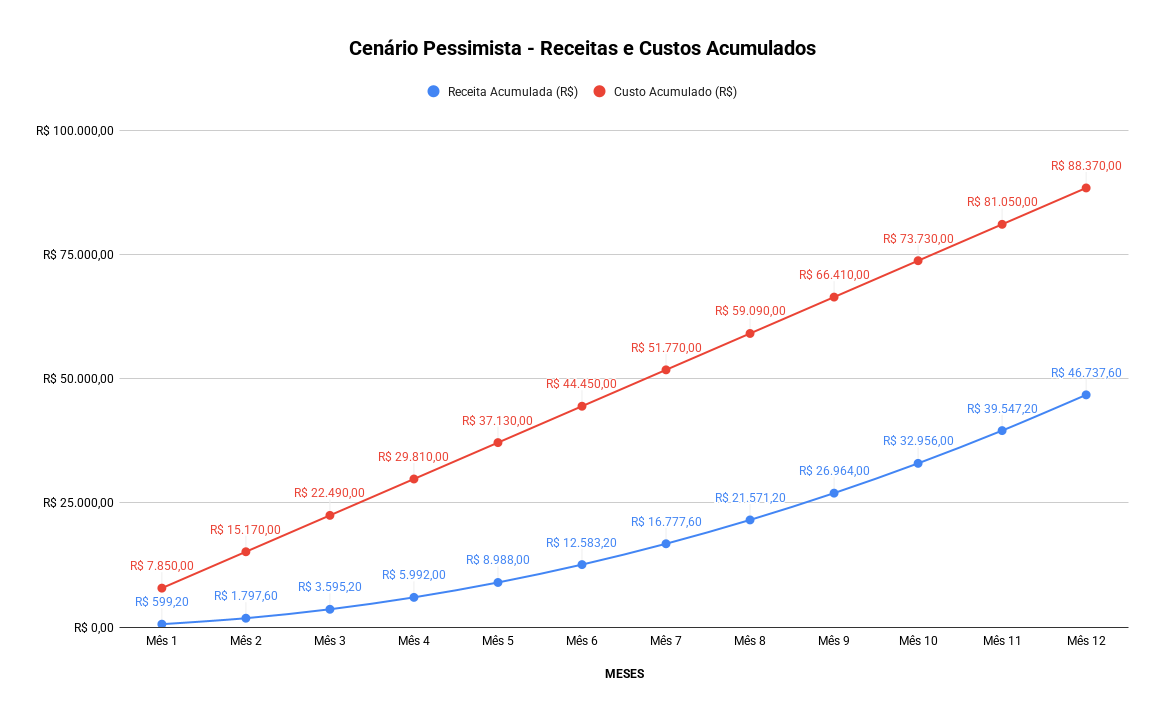
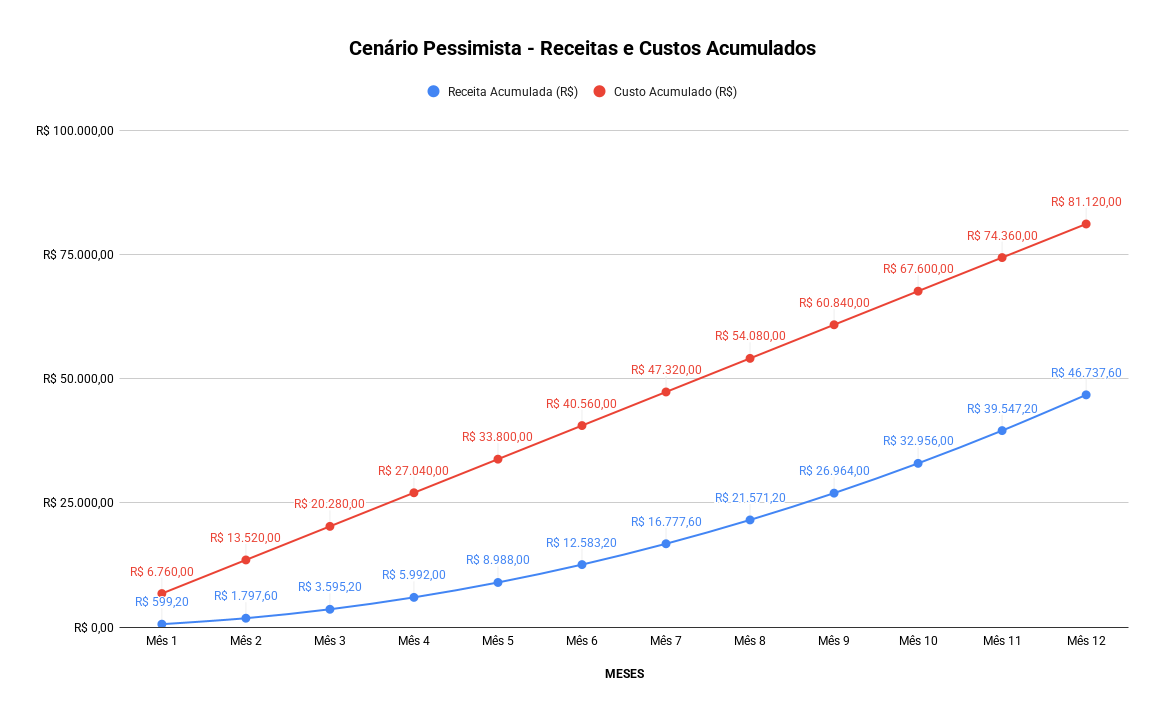
docs: adjust 'Viabilidade Financeira' chapter

Changed region(s): [[0.0928, 0.4296, 0.7113, 0.8285], [0.6804, 0.2148, 0.9588, 0.4603]]

diff --git a/docs/documentation/abntex2/cap05-viabilidade/05-01-custos.tex b/docs/documentation/abntex2/cap05-viabilidade/05-01-custos.tex
@@ -22,15 +22,12 @@ A Tabela \ref{tab:custo-mensal-projeto} apresenta os custos com mão de obra, in
 		\midrule
 		\multicolumn{3}{l}{\textbf{Infraestrutura e Ferramentas}} \\
 		\quad AWS EC2 (múltiplas instâncias) & --- & 250,00 \\
-		\quad Internet (banda larga) & 120,00 & 720,00 \\
-		\quad Consumo elétrico (computador) & 6,65 & 40,00 \\
 		\quad SonarQube (licença comercial) & --- & 350,00 \\
-		\quad Notion Plus (equipe) & 55,00 & 330,00 \\
 		\quad Figma Professional (acesso full + dev) & --- & 160,00 \\
 		\cmidrule{3-3}
-		\multicolumn{2}{l}{\textbf{Subtotal Infraestrutura}} & \textbf{1.850,00} \\
+		\multicolumn{2}{l}{\textbf{Subtotal Infraestrutura}} & \textbf{760,00} \\
 		\midrule
-		\multicolumn{2}{l}{\textbf{TOTAL MENSAL}} & \textbf{7.850,00} \\
+		\multicolumn{2}{l}{\textbf{TOTAL MENSAL}} & \textbf{6.760,00} \\
 		\bottomrule
 	\end{tabular}
 	\fonte{Produzido pelos autores}
@@ -40,9 +37,9 @@ Para determinar os custos da mão de obra, utilizou-se a plataforma \emph{Glassd
 
 Conforme aconselhado pelo orientador do projeto, considerou-se um dia de trabalho inteiro equivalente a apenas uma hora para se aproximar da disponibilidade real que os membros da equipe podiam dedicar ao desenvolvimento do projeto. Assim, o custo mensal de cada cargo foi obtido considerando o valor da hora trabalhada.
 
-O preço da infraestrutura das instâncias \gls{ec2}, operando 24 horas por dia, foi calculado utilizando a própria calculadora de preços da \gls{aws} \cite{aws-calculadora-2025}. Já o custo de internet foi baseado numa média de preços online \cite{internet-precos-2025}, enquanto o de consumo elétrico considerou a tarifa residencial da cidade de São Paulo no ano de 2024 \cite{enel-tarifa-2024} para 6 computadores com um consumo médio de 300 W por hora.
+O preço da infraestrutura das instâncias \gls{ec2}, operando 24 horas por dia, foi calculado utilizando a própria calculadora de preços da \gls{aws} \cite{aws-calculadora-2025}.
 
-Quanto às ferramentas utilizadas no projeto, levou-se em conta os preços do \emph{SonarQube} \cite{sonarqube-preco-2025}, as mensalidades do \emph{Notion} \cite{notion-preco-2025} e os planos do \emph{Figma} \cite{figma-preco-2025}. Os valores em dólar foram convertidos considerando uma cotação média de R\$ 5,50 em junho de 2025.
+Quanto às ferramentas utilizadas no projeto, levou-se em conta os preços do \emph{SonarQube} \cite{sonarqube-preco-2025} e os planos do \emph{Figma} \cite{figma-preco-2025}. Os valores em dólar foram convertidos considerando uma cotação média de R\$ 5,50 em junho de 2025.
 
 A Tabela \ref{tab:custo-total-projeto} apresenta o custo total do projeto considerando os 9 meses de desenvolvimento previstos na Seção \ref{sec:duracao}.
 
@@ -64,15 +61,12 @@ A Tabela \ref{tab:custo-total-projeto} apresenta o custo total do projeto consid
 		\midrule
 		\multicolumn{3}{l}{\textbf{Infraestrutura e Ferramentas}} \\
 		\quad AWS EC2 (múltiplas instâncias) & 250,00 & 2.250,00 \\
-		\quad Internet (banda larga) & 720,00 & 6.480,00 \\
-		\quad Consumo elétrico (computador) & 40,00 & 360,00 \\
 		\quad SonarQube (licença comercial) & 350,00 & 3.150,00 \\
-		\quad Notion Plus (equipe) & 330,00 & 2.970,00 \\
 		\quad Figma Professional (acesso full + dev) & 160,00 & 1.440,00 \\
 		\cmidrule{3-3}
-		\multicolumn{2}{l}{\textbf{Subtotal Infraestrutura}} & \textbf{16.650,00} \\
+		\multicolumn{2}{l}{\textbf{Subtotal Infraestrutura}} & \textbf{6.840,00} \\
 		\midrule
-		\multicolumn{2}{l}{\textbf{TOTAL}} & \textbf{70.650,00} \\
+		\multicolumn{2}{l}{\textbf{TOTAL}} & \textbf{60.840,00} \\
 		\bottomrule
 	\end{tabular}
 	\fonte{Produzido pelos autores}

diff --git a/docs/documentation/abntex2/cap05-viabilidade/05-02-receitas.tex b/docs/documentation/abntex2/cap05-viabilidade/05-02-receitas.tex
@@ -2,22 +2,26 @@
 
 Com base nos custos mensais e totais da Seção \ref{sec:custos}, constata-se que o projeto não é financeiramente viável para a entidade parceira, pois --- mesmo parcelando --- ela teria que arcar com todas as despesas do projeto descritas.
 
-Assim sendo, será considerada uma eventual adaptação do sistema para um modelo \gls{saas} a fim de analisar as receitas que a aplicação geraria. A Tabela \ref{tab:receitas-saas} apresenta os valores das mensalidades dos planos definidos para a aplicação.
+Assim sendo, será considerada uma eventual adaptação do sistema para um modelo \gls{saas}, a fim de analisar as receitas que a aplicação poderia gerar. A Tabela \ref{tab:receitas-saas} apresenta os valores das mensalidades e as principais funcionalidades de cada plano.
+
+A precificação dos planos foi definida com base nos preços praticados pelos concorrentes identificados na Seção \ref{sec:analise-concorrencia}, considerando também os custos operacionais e o público-alvo do sistema. 
 
 \begin{table}[htbp]
 	\centering
 	\caption{Projeção de receitas mensais - SaaS para salões de beleza}
 	\label{tab:receitas-saas}
-	\begin{tabular}{lrr}
+	\begin{tabular}{p{3cm}p{7cm}r}
 		\toprule
-		\textbf{Plano} & \multicolumn{2}{r}{\textbf{Valor Mensal (R\$)} }\\
+		\textbf{Plano} & \textbf{Funcionalidades e Diferenciais} & \textbf{Valor Mensal (R\$)} \\
 		\midrule
-		\multicolumn{1}{l}{\textbf{Planos de Assinatura}} & & \\
-		\quad Básico & & 59,90 \\
-		\quad Profissional & & 99,90 \\
+		\textbf{Básico} & Indicado para pequenos salões e profissionais autônomos. Inclui gestão de agendamentos, serviços, profissionais e turnos, além do envio de notificações \textit{in-app} para clientes e profissionais sobre os agendamentos. Permite ainda a avaliação de serviços pelos clientes e o cadastro de até 5 profissionais por salão. & 59,90 \\
+		\addlinespace
+		\textbf{Profissional} & Voltado a salões de médio e grande porte. Inclui todas as funcionalidades do plano Básico e adiciona recursos avançados como registro de pagamentos, gestão de permissões de acesso, criação de campanhas de desconto, envio de notificações personalizadas e por e-mail, geração de relatórios visuais e suporte a número ilimitado de profissionais. & 99,90 \\
 		\bottomrule
 	\end{tabular}
 	\fonte{Produzido pelos autores}
 \end{table}
 
-A precificação dos planos foi feita baseando-se nos preços praticados pelos concorrentes identificados na Seção \ref{sec:analise-concorrencia}, além de considerar os custos operacionais e tentar oferecer um preço atrativo para estimular possíveis clientes a usarem o sistema.
+O \textbf{Plano Básico} busca atender profissionais que desejam digitalizar suas operações de forma acessível, oferecendo um conjunto essencial de funcionalidades para o controle de agendamentos, serviços e equipe. 
+
+Já o \textbf{Plano Profissional}, destinado a salões com maior volume de atendimentos, amplia significativamente as possibilidades de gestão, automação e análise, justificando o valor superior ao agregar funções estratégicas voltadas à expansão e tomada de decisão.

diff --git a/docs/documentation/abntex2/cap05-viabilidade/analise-financeira/05-03-04-indicadores.tex b/docs/documentation/abntex2/cap05-viabilidade/analise-financeira/05-03-04-indicadores.tex
@@ -1,0 +1,28 @@
+\subsection{Indicadores financeiros}
+
+Para complementar a análise dos cenários apresentados, foram utilizadas métricas financeiras amplamente empregadas em estudos de viabilidade econômica, como o \textbf{Retorno sobre o Investimento (ROI)} e o \textbf{Período de Retorno (Payback Period)}.
+
+O \textbf{ROI (Return on Investment)} mede a relação entre o lucro obtido e o investimento inicial, indicando o percentual de retorno gerado pelo projeto. Sua fórmula é:
+
+\[
+ROI = \frac{\text{Lucro Líquido}}{\text{Investimento Total}} \times 100
+\]
+
+O \textbf{Payback Period} representa o tempo necessário para recuperar o investimento inicial a partir das receitas acumuladas, sendo calculado como:
+
+\[
+\text{Payback} = \frac{\text{Investimento Inicial}}{\text{Receita Líquida Média Mensal}}
+\]
+
+\subsubsection{Cenário realista}
+
+Considerando o cenário realista, em que o aumento mensal é de 15 clientes no plano básico e 10 no profissional, ao fim de 12 meses, o lucro acumulado obtido somente pelas mensalidades é de aproximadamente R\$ 59 mil.  
+Com investimento inicial de R\$ 60.840 (Tabela \ref{tab:custo-total-projeto}), o ROI estimado é de cerca de 108\% e o \textit{payback} ocorre antes de completar um ano.
+
+\subsubsection{Cenário otimista}
+
+No cenário otimista, com crescimento de 30 clientes no básico e 25 no profissional por mês, ao fim de 12 meses, o lucro acumulado pelas mensalidades é de R\$ 253 mil, resultando em ROI de aproximadamente 416\% e confirmando o rápido retorno do investimento. O \textit{payback} ocorre em cerca de 3 meses.
+
+\subsubsection{Cenário pessimista}
+
+No cenário pessimista, com aumento de apenas 5 clientes no plano básico e 3 no profissional por mês, ao fim de 12 meses, o projeto apresenta prejuízo de R\$ 34 mil, refletindo ROI negativo e ausência de payback no período analisado.

diff --git a/docs/documentation/abntex2/cap05-viabilidade/05-03-analise-financeira.tex b/docs/documentation/abntex2/cap05-viabilidade/05-03-analise-financeira.tex
@@ -1,0 +1,18 @@
+\section{Análise Financeira}
+
+Esta seção apresenta a avaliação econômica do projeto, considerando diferentes cenários de receita e custos operacionais.  
+O objetivo é demonstrar a viabilidade financeira do sistema quando estruturado como um modelo \gls{saas}, destacando a relação entre investimentos, receitas projetadas e retorno esperado.  
+A análise contempla tanto a perspectiva conservadora quanto cenários mais otimistas, fornecendo uma visão abrangente sobre a sustentabilidade econômica do projeto e os fatores que influenciam o sucesso financeiro da aplicação.
+
+\subsection{Cenários}
+
+Nesta subseção, são detalhados três cenários de desempenho financeiro do projeto: pessimista, realista e otimista.  
+Cada cenário considera diferentes taxas de crescimento da base de clientes e respectivas receitas provenientes das mensalidades, bem como os custos associados à manutenção e operação do sistema.  
+A análise permite identificar o ponto de equilíbrio, projetar lucros ou prejuízos e avaliar indicadores financeiros importantes, como ROI e Payback Period, para cada contexto estudado.
+
+
+\input{cap05-viabilidade/analise-financeira/05-03-01-cenario-realista.tex}
+\input{cap05-viabilidade/analise-financeira/05-03-02-cenario-otimista.tex}
+\input{cap05-viabilidade/analise-financeira/05-03-03-cenario-pessimista.tex}
+
+\input{cap05-viabilidade/analise-financeira/05-03-04-indicadores.tex}

diff --git a/docs/documentation/abntex2/cap05-viabilidade/analise-financeira/05-03-03-cenario-pessimista.tex b/docs/documentation/abntex2/cap05-viabilidade/analise-financeira/05-03-03-cenario-pessimista.tex
@@ -1,10 +1,10 @@
-\section{Cenário Pessimista}
+\subsubsection{Cenário pessimista}
 
 A Figura \ref{fig:cenario-pessimista} apresenta as receitas e custos acumulados no cenário pessimista considerando o projeto como um \gls{saas}. Nesse contexto, para o cálculo do acúmulo de receitas, estabeleceu-se um aumento mensal baixo de 5 clientes para o plano básico e 3 para o profissional.
 
 Os custos consideram somente os gastos com mão de obra, infraestrutura e mensalidades ou licenças das ferramentas utilizadas no desenvolvimento e manutenção da aplicação.
 
-No cenário pessismista, o ponto de equilíbrio não é atingido no doze meses de análise e, ao fim desse intervalo de tempo, há um prejuízo de R\$ 41 mil.
+No cenário pessismista, o ponto de equilíbrio não é atingido no doze meses de análise e, ao fim desse intervalo de tempo, há um prejuízo de R\$ 34 mil.
 \begin{figure}[h]
 	\centering
 	\caption{Cenário pessimista}

diff --git a/docs/documentation/abntex2/cap05-viabilidade/analise-financeira/05-03-02-cenario-otimista.tex b/docs/documentation/abntex2/cap05-viabilidade/analise-financeira/05-03-02-cenario-otimista.tex
@@ -1,10 +1,10 @@
-\section{Cenário Otimista}
+\subsubsection{Cenário otimista}
 
 A Figura \ref{fig:cenario-otimista} apresenta as receitas e custos acumulados no cenário otimista considerando o projeto como um \gls{saas}. Nesse contexto, para o cálculo do acúmulo de receitas, estabeleceu-se um aumento mensal acentuado de 30 clientes para o plano básico e 25 para o profissional.
 
 Os custos consideram somente os gastos com mão de obra, infraestrutura e mensalidades ou licenças das ferramentas utilizadas no desenvolvimento e manutenção da aplicação.
 
-No cenário otimista, o ponto de equilíbrio é atingido no terceiro mês e, ao fim dos doze meses de análise, há um lucro de R\$ 246 mil.
+No cenário otimista, o ponto de equilíbrio é atingido no terceiro mês e, ao fim dos doze meses de análise, há um lucro de R\$ 253 mil.
 
 \begin{figure}[h]
 	\centering

diff --git a/docs/documentation/abntex2/cap05-viabilidade/analise-financeira/05-03-01-cenario-realista.tex b/docs/documentation/abntex2/cap05-viabilidade/analise-financeira/05-03-01-cenario-realista.tex
@@ -1,10 +1,10 @@
-\section{Cenário Realista}
+\subsubsection{Cenário Realista}
 
 A Figura \ref{fig:cenario-realista} apresenta as receitas e custos acumulados no cenário realista considerando o projeto como um \gls{saas}. Nesse contexto, para o cálculo do acúmulo de receitas, estabeleceu-se um aumento mensal razoável de 15 clientes para o plano básico e 10 para o profissional.
 
 Os custos consideram somente os gastos com mão de obra, infraestrutura e mensalidades ou licenças das ferramentas utilizadas no desenvolvimento e manutenção da aplicação.
 
-No cenário realista, o ponto de equilíbrio é atingido no sétimo mês e, ao fim dos doze meses de análise, há um lucro de R\$ 59 mil.
+No cenário realista, o ponto de equilíbrio é atingido no sétimo mês e, ao fim dos doze meses de análise, há um lucro de R\$ 66 mil.
 
 \begin{figure}[h]
 	\centering

diff --git a/docs/documentation/abntex2/cap05-viabilidade/05-00-viabilidade-financeira.tex b/docs/documentation/abntex2/cap05-viabilidade/05-00-viabilidade-financeira.tex
@@ -6,6 +6,4 @@ Por se tratar de um projeto acadêmico em que não houve custos nem retorno fina
 
 \input{cap05-viabilidade/05-01-custos.tex}
 \input{cap05-viabilidade/05-02-receitas.tex}
-\input{cap05-viabilidade/05-03-cenario-realista.tex}
-\input{cap05-viabilidade/05-04-cenario-otimista.tex}
-\input{cap05-viabilidade/05-05-cenario-pessimista.tex}
+\input{cap05-viabilidade/05-03-analise-financeira.tex}
